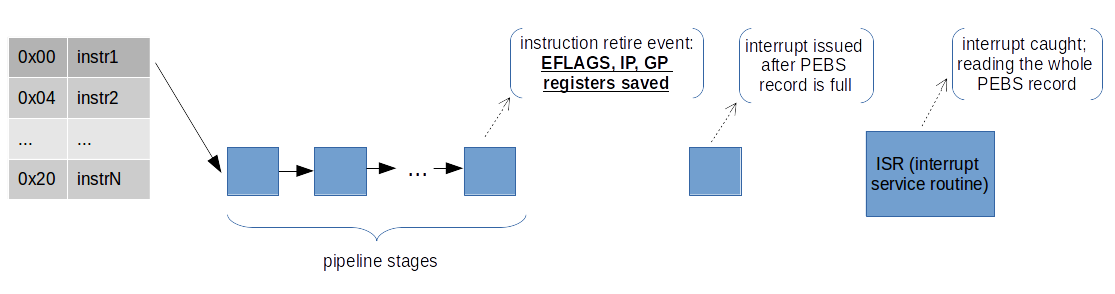
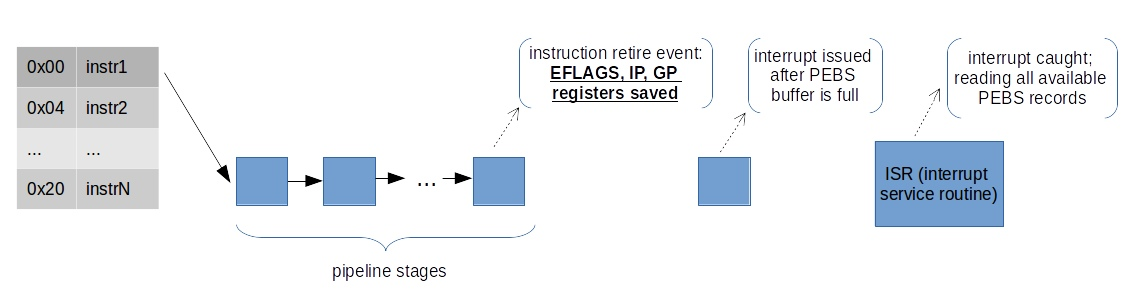
Added post about PEBS and LBR

diff --git a/_posts/2018-06-08-Advanced-profiling-topics-PEBS-and-LBR.md b/_posts/2018-06-08-Advanced-profiling-topics-PEBS-and-LBR.md
@@ -1,0 +1,119 @@
+---
+layout: post
+title: Advanced profiling topics. PEBS and LBR.
+tags: default
+---
+
+In my [previous post](https://dendibakh.github.io/blog/2018/06/01/PMU-counters-and-profiling-basics) I made an overview of what PMU (Performance Monitoring Unit) is and what is PMU counter (PMC). We learned that there are fixed and programmable PMCs inside each PMU. We explored basics of counting and sampling mechanisms and left off on the advanced techniques and features for sampling. 
+
+To recap, previously I showed the number of steps which profiling tool does in order to collect statictics for your application. We initialize the counter with some number and wait until it overflows. On counter overflow, the kernel records information, i.e., a sample, about the execution of the program. What gets recorded depends on the type of measurement, but the key information that is common in all samples is the instruction pointer, i.e. where was the program when it was interrupted.
+
+### Multiplexing and scaling events
+
+The topic of multiplexing between different events in runtime is covered pretty well [here](https://perf.wiki.kernel.org/index.php/Tutorial#multiplexing_and_scaling_events), so I decided to take most of the explanation from it.
+
+If there are more events than counters, the kernel uses time multiplexing to give each event a chance to access the monitoring hardware. With multiplexing, an event is not measured all the time. At the end of the run, the tool scales the count based on total time enabled vs time running. The actual formula is:
+
+```
+final_count = raw_count * ( time_running / time_enabled )
+```
+
+For example, say during profiling we were able to measure counter that we are interested 5 times, each measurement interval lasted 100ms (`time_enabled`). The program executed time is 1s(`time_running`). Total number of events for this counter is 10000 (`raw_count`). So, the `final_count` will be equal to 20000.
+
+This provides an estimate of what the count would have been, had the event been measured during the entire run. It is very important to understand that this is an estimate not an actual count. Depending on the workload, there will be blind spots which can introduce errors during scaling.
+
+This pretty much explains how "general-exploration" analysis in Intel VTune Amplifier is able to collect near 100 different events just in single execution of the programm. For callibrating purposes, profiling tools usually have thresholds for different counters to decide if we can trust the measured number of events, or it is too low to rely on (see [MUX reliability](https://software.intel.com/en-us/vtune-amplifier-help-mux-reliability)).
+
+The easiest algorithm for multiplexing events is to manage it in round-robin fashion. Therefore each event will eventually get a chance to run. If there are N counters, then up to the first N events on the round-robin list are programmed into the PMU. In certain situations it may be less than that because some events may not be measured together or they compete for the same counter. 
+
+To avoid scaling, one can try to reduce the number of events to be not bigger than the amount of physical PMCs available.
+
+### Runtime overhead of characterizing and profiling
+
+On the topic of runtime overhead in counting and sampling modes there is a [very good paper](https://openlab-archive-phases-iv-v.web.cern.ch/sites/openlab-archive-phases-iv-v.web.cern.ch/files/technical_documents/TheOverheadOfProfilingUsingPMUhardwareCounters.pdf) written by A. Nowak and G. Bitzes. They measured profiling overhead on a Xeon-based machine with 48 logical cores in different configurations: with disabled/enabled Hyper Threading, running tasks on all/several/one cores and collecting 1/4/8/16 different metrics. 
+
+In my interpretation there is almost no runtime overhead (1-2%%) in counting mode. In sampling mode it's cheap unless you don't multiplex between different counters (and keep sampling frequency not too high). However, if you'll try to collect more counters than the physical PMU counters available, you'll get performance hit of about 5-15% depending on the number of counters you want to collect. Finally, the higher is the sampling frequency the bigger is the overhead of profiling, as more interrupts need to be processed.
+
+### Interrupt- vs. event-based sampling
+
+Interrupt-based sampling can be described as a simple process in which when the counter overflows, processor triggers the performance interrupt.
+
+Interrupt-based sampling introduces skids on modern processors. That means that the instruction pointer stored in each sample designates the place where the program was interrupted to process the PMU interrupt, not the place where the counter actually overflows, i.e., where it was at the end of the sampling period. In some case, the distance between those two points may be several dozen instructions or more if there were taken branches. 
+
+Let's take a look at the example:
+![](/img/posts/PEBS_LBR/Interrupt-base-sampling.png){: .center-image }
+Let's assume that on retirement of `instr1` we have an overflow of the counter that samples "instruction retired" events. Because of latency in the microarchitecture between the generation of events and the generation of interrupts on overflow, it is sometimes difficult to generate an interrupt close to an event that caused it. So by the time the interrupt is generated our IP has gone further by a number of instructions. When we reconstruct register state in interrupt service routine, we have slightly inaccurate data.
+
+### Processor Event-Based Sampling (PEBS)
+
+The problem with the skids is possible to mitigate by having the processor itself store the instruction pointer (along with other information) in a designated buffer in memory – no interrupts are issued for each sample and the instruction pointer is off only by a single instruction, at most. This needs to be supported by the hardware, and is typically available only for a subset of supported events – this capability is called Processor Event-Based Sampling (PEBS) on Intel processors. You can also see people call it Precise Event-Based Sampling, but according to Intel manuals, first word is "Processor" not "Precise". But it basically means the same thing.
+
+![](/img/posts/PEBS_LBR/Event_Based_Sampling.png){: .center-image }
+
+When a counter is enabled to capture machine state, the processor will write machine state information to a memory buffer specified by software. When the counter overflows from maximum count to zero, the PEBS hardware is armed. Upon occurrence of the next PEBS event, the PEBS hardware triggers an assist and causes a PEBS record to be written into the PEBS buffer. This record contains the architectural state of the processor (state of the general purpose registers, EIP register, and EFLAGS register). With PEBS, the format of the samples is mandated by the processor, so the best way to know it is to look into the [Intel® 64 and IA-32 Architectures Software Developer’s Manual Volume 3B, Chapter 18](https://software.intel.com/sites/default/files/managed/7c/f1/253669-sdm-vol-3b.pdf).
+
+Not all events support PEBS. For example, on Sandy Bridge there are 7 PEBS events supported:
+- INST_RETIRED
+- UOPS_RETIRED
+- BR_INST_RETIRED
+- BR_MISP_RETIRED
+- MEM_UOPS_RETIRED
+- MEM_LOAD_UOPS_RETIRED
+- MEM_LOAD_UOPS_LLC_HIT_RETIRED
+
+PEBS events for patricular architecture can be checked in [Intel® 64 and IA-32 Architectures Software Developer’s Manual Volume 3B, Chapter 18](https://software.intel.com/sites/default/files/managed/7c/f1/253669-sdm-vol-3b.pdf). 
+
+PEBS buffer consists of records.  Each sample contains the machine state of the processor at the time the counter overflowed. Here is the example of PEBS record (picture below is taken from Intel manual):
+![](/img/posts/PEBS_LBR/PEBS_record_fromat.png){: .center-image-width-50 }
+
+You can check if PEBS are enabled by executing `dmesg` right after startup:
+```
+$ dmesg | grep PEBS
+[    0.061116] Performance Events: PEBS fmt1+, IvyBridge events, 16-deep LBR, full-width counters, Intel PMU driver.
+```
+You can use PEBS with perf by adding :p and :pp suffix to the event specifier:
+```
+perf record -e event:pp
+```
+
+Benefits of using PEBS:
+- The skid is mimized compared to regular interrupted instruction pointer. 
+- Reduce the overhead because the Linux kernel is only involved when the PEBS buffer fills up, i.e., there is no interrupt until a lot of samples are available.
+
+### LBR
+
+There is a great series on the topic of LBR and it's applications on [lwm.net](https://lwn.net/Articles/680985/) by Andi Kleen:
+> Intel CPUs have a feature called last branch records (LBR) where the CPU can continuously log branches to a set of model-specific registers (MSRs). The CPU hardware can do this in parallel while executing the program without causing any slowdown. There is some performance penalty for reading these registers, however.
+> 
+>The LBRs log the "from" and "to" address of each branch along with some additional metadata. The registers act like a ring buffer that is continuously overwritten and provides only the most recent entries. There is also a TOS (top of stack) register to provide a pointer to the most recent branch. With LBRs we can sample branches, but during each sample look at the previous 8-32 branches that were executed. This gives reasonable coverage of the control flow in the hot code paths, but does not overwhelm us with too much information, as only a smaller number of the total branches are examined.
+> 
+> Once we are able to sample LBRs it is possible to set up sampling of branch events at a frequency that does not slow down the workload unduly, and still create an useful histogram of hot branches. It is important to keep in mind that this is still sampling, so not every executed branch can be examined. CPUs generally execute too fast for that to be feasible. 
+
+The last branch recording mechanism tracks not only branch instructions (like JMP, Jcc, LOOP and CALL instructions), but also other operations that cause a change in the instruction pointer (like external interrupts, traps and faults). The branch recording mechanisms generally employs a set of MSRs (Model Specific Registers), referred to as last branch record (LBR) stack. The size and exact locations of the LBR stack are generally model-specific. The picture below is taken from [Intel® 64 and IA-32 Architectures Optimization Reference Manual, Chapter B.3.3.4](https://software.intel.com/en-us/articles/intel-sdm):
+
+![](/img/posts/PEBS_LBR/LBR_MSR.png){: .center-image-width-50 }
+
+Last Branch Record (LBR) Stack — The LBR consists of N pairs of MSRs (N is, again, model specific) that store source and destination address of recent branches. 
+Last Branch Record Top-of-Stack (TOS) Pointer — contains a pointer to the MSR in the LBR stack that contains the most recent branch, interrupt, or exception recorded.
+
+There are two important usages for LBR as mentioned in [Intel® 64 and IA-32 Architectures Optimization Reference Manual, Chapter B.3.3.4](https://software.intel.com/en-us/articles/intel-sdm):
+1. **Collecting Call Counts and Function Arguments**. If the LBRs are captured for PMIs triggered by the BR_INST_RETIRED.NEAR_CALL event, then the call count per calling function can be determined by simply using the last entry in LBR. As the PEBS IP will equal the last target IP in the LBR, it is the entry point of the calling function. Similarly, the last source in the LBR buffer was the call site from within the calling function. If the full PEBS record is captured as well, then for functions with limited numbers of arguments on 64-bit OS’s, you can sample both the call counts and the function arguments.
+2. **Basic Block Execution Counts**. This is rather complicated to explain, so I refer a reader for the manual to read more about this.
+
+From a user perspective LBR can be used for collecting call-graph information even if you compiled your app without frame pointers (controlled by compiler option '-fomit-frame-pointer', ON by default):
+```
+$ perf record --call-graph lbr
+```
+Using LBR in perf also allows you to see where were the most amount of branches:
+```
+$ perf record -b
+```
+
+For some more applications of LBR, including debugging support and hot-path branch history, you can take a look at Andi Kleen's articles on lwn.net: [part1](https://lwn.net/Articles/680985/), [part2](https://lwn.net/Articles/680996/).
+
+### Other resources:
+- Presentation on Black Hat 2015 conference by N. Herath and A. Fogh "These are Not Your Grand Daddy's CPU Performance Counters": [video](https://www.youtube.com/watch?v=dfIoKgw65I0&t=599s&list=WL&index=29), [slides](https://www.blackhat.com/docs/us-15/materials/us-15-Herath-These-Are-Not-Your-Grand-Daddys-CPU-Performance-Counters-CPU-Hardware-Performance-Counters-For-Security.pdf)
+- Brendan Gregg's article about [perf](http://www.brendangregg.com/perf.html)
+- Linux kernel profiling with perf [tutorial](https://perf.wiki.kernel.org/index.php/Tutorial)
+- Somewhat old, but still actual guide on how to program PMU: [Nehalem Performance Monitoring Unit Programming Guide](https://software.intel.com/sites/default/files/m/5/2/c/f/1/30320-Nehalem-PMU-Programming-Guide-Core.pdf)
+- Description of instructions: `RDPMC, RDTSC, RDTSCP, RDMSR, WRMSR` in [Intel SDM v2, Instruction Set Reference](https://www.intel.com/content/dam/www/public/us/en/documents/manuals/64-ia-32-architectures-software-developer-instruction-set-reference-manual-325383.pdf)
